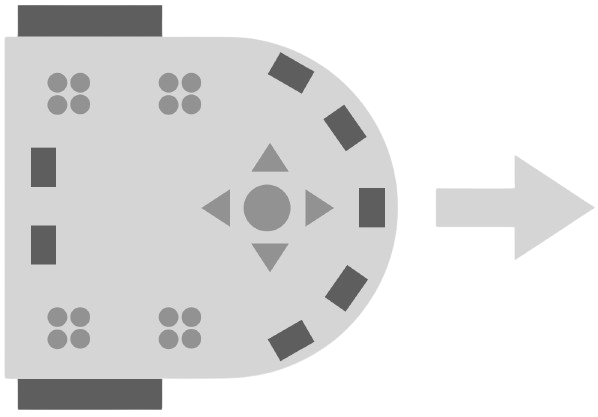
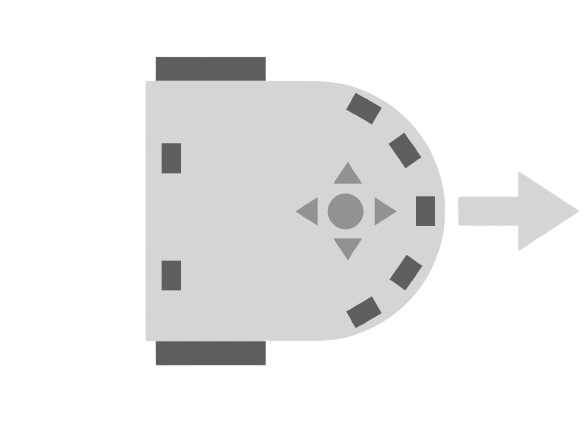
changed images

diff --git a/src/views/Tree/TreeManual.tsx b/src/views/Tree/TreeManual.tsx
@@ -20,7 +20,7 @@ const actCondImages = {
     'sensor4':  '/sensor4.png',
     'sensor5':  '/sensor5.png',
     'sensor6':  '/sensor6.png',
-    'Condition or Action': '/transparent2.png',
+    'Condition or Action': '/transparent.png',
 }
 
 
@@ -35,7 +35,7 @@ const manualTreeRendering = (ManualTreeData: any, handleOnDropInTree:(e:React.Dr
               ManualTreeData.map((item: any)=>
                   <li key={item.id} className={item.text+item.id}>
                       <div data-id={item.id} onDrop={(e) => handleOnDropInTree(e)} onDragOver={(e) => e.preventDefault()}>
-                        <img src={actCondImages[item.text as keyof typeof actionImage]} alt={item.text} width="72%" height="100%" />
+                        <img src={actCondImages[item.text as keyof typeof actionImage]} alt={item.text} width="75%" height="100%" />
                       </div>
                       {
                           item.children && item.children.length ?

diff --git a/src/views/Tree/TreeAI.tsx b/src/views/Tree/TreeAI.tsx
@@ -16,7 +16,7 @@ const actCondImages = {
     'sensor4':  '/sensor4.png',
     'sensor5':  '/sensor5.png',
     'sensor6':  '/sensor6.png',
-    'Condition or Action': '/transparent3.png',
+    'Condition or Action': '/transparent.png',
 }
 
 /* adapted from React-Node-Flow: https://github.com/kumarabhishek008/React-Node-Flow/tree/master */

diff --git a/src/views/App/App.css b/src/views/App/App.css
@@ -129,7 +129,7 @@
 .draggableBox{
   border-radius: 8px;
   border: 1px solid transparent;
-  padding: 0.6em 1.2em;
+  padding: 0.3em 0.6em;
   font-size: 1em;
   font-weight: 500;
   font-family: inherit;

diff --git a/src/views/Tree/tree.css b/src/views/Tree/tree.css
@@ -81,7 +81,7 @@
     width: 160px; */
     /* height: 15%;
     width: 20%; */
-    height: 5vw;
-    width: 8vw;
+    height: 5.5vw;
+    width: 8.5vw;
     border-radius: 10px;
 }
